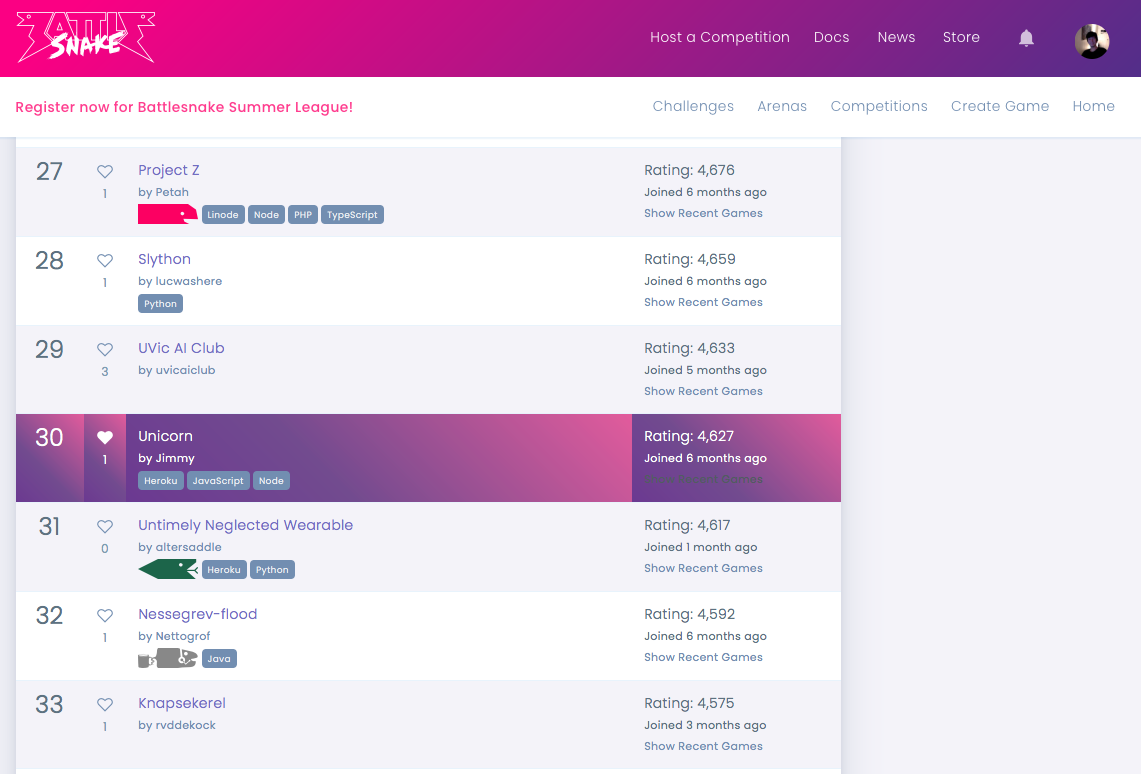
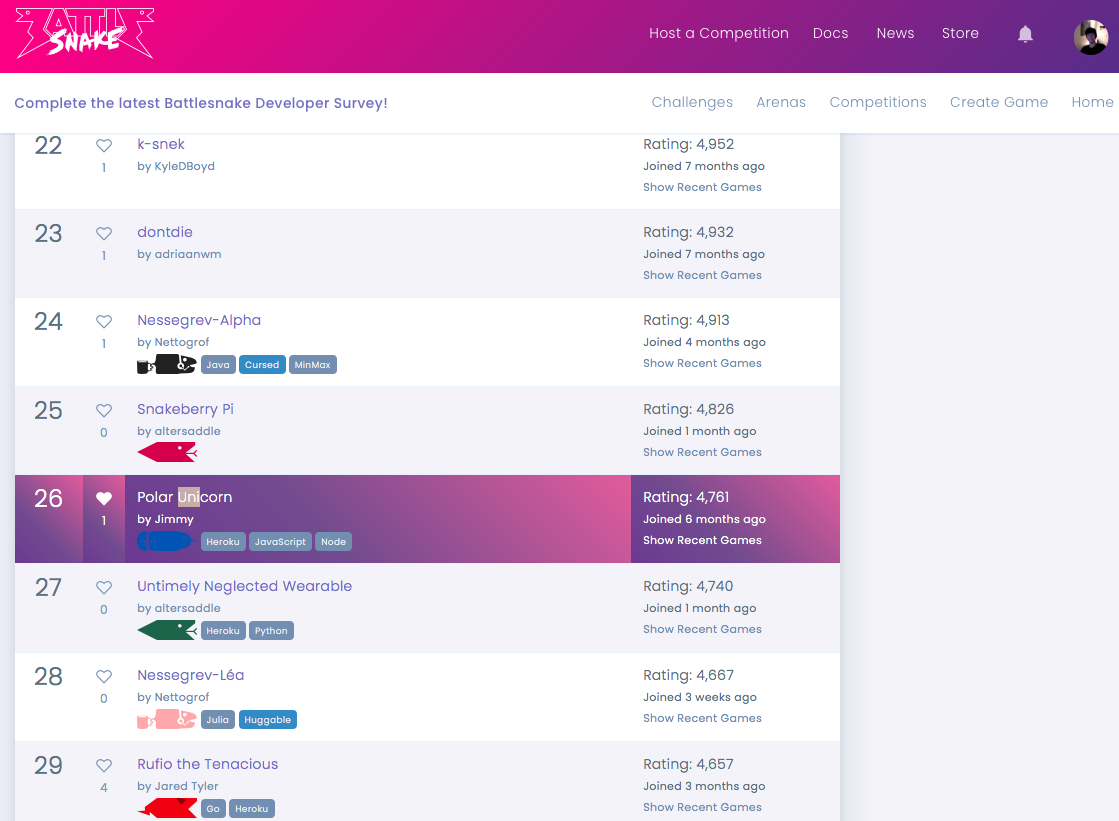
new highest ranking screenshot

diff --git a/README.md b/README.md
@@ -1,4 +1,4 @@
-# My highest global ranking (top 12%):
+# My highest global ranking (top 10%):
 
 ![](rank.png)
 
